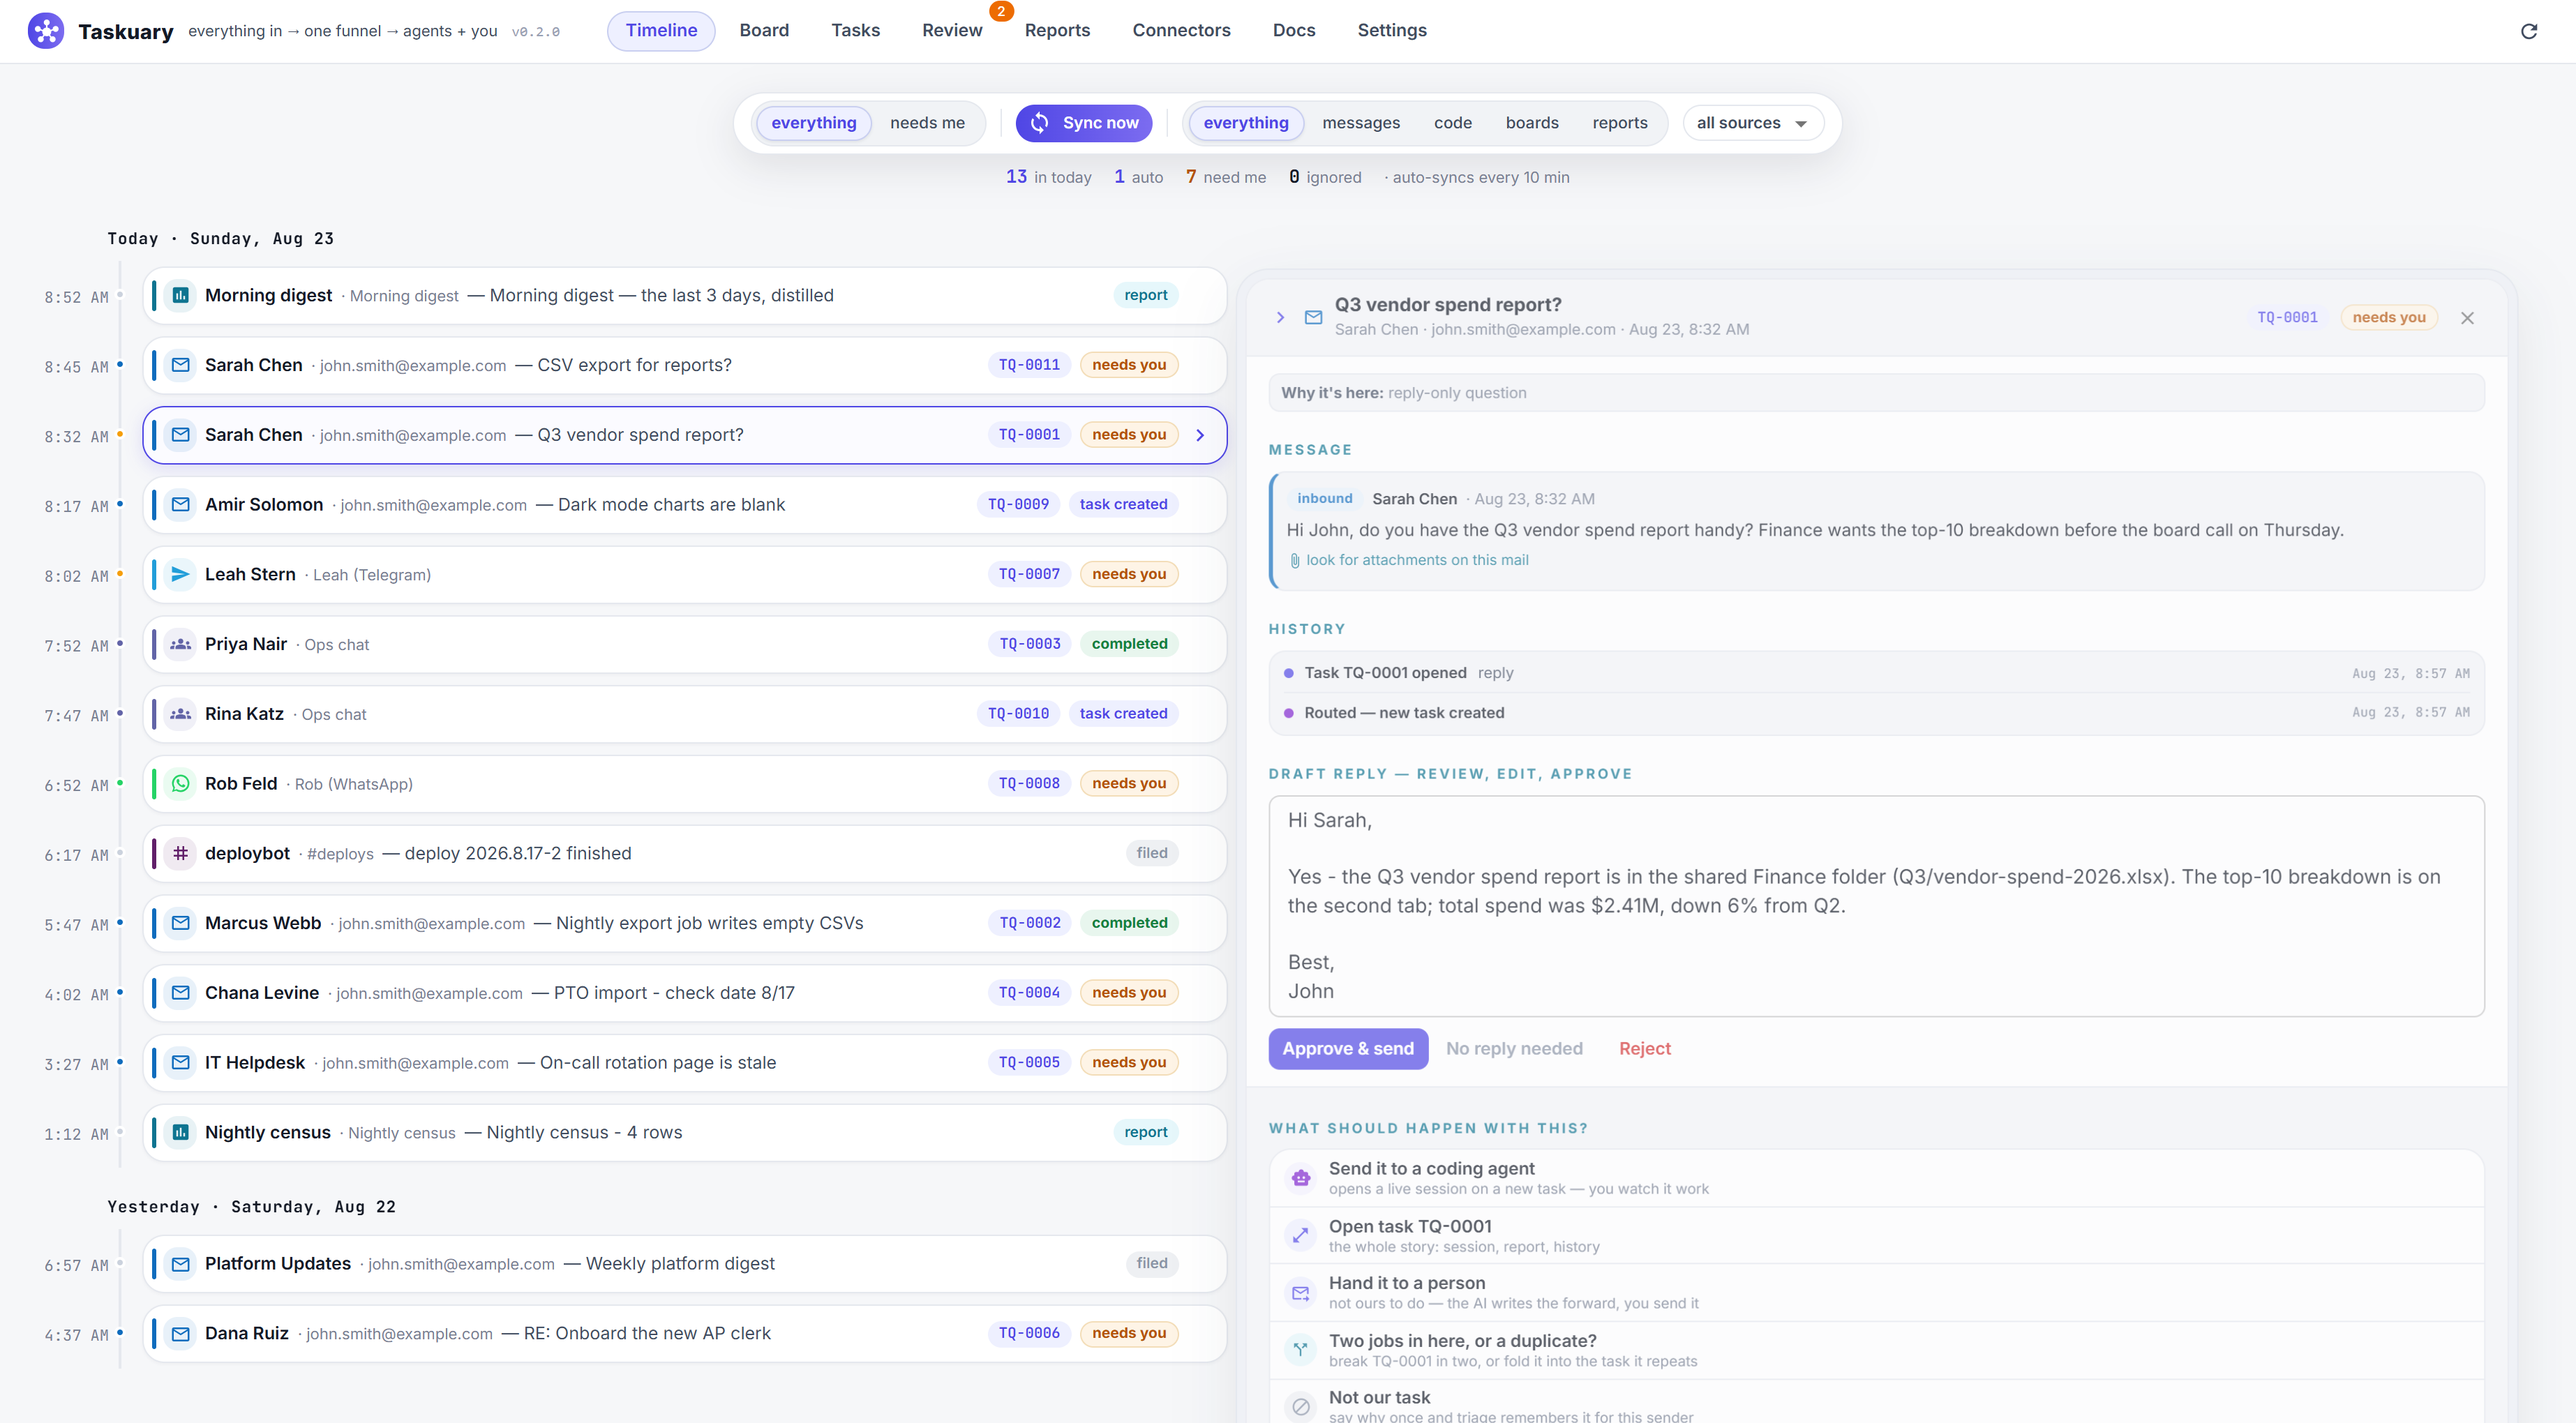
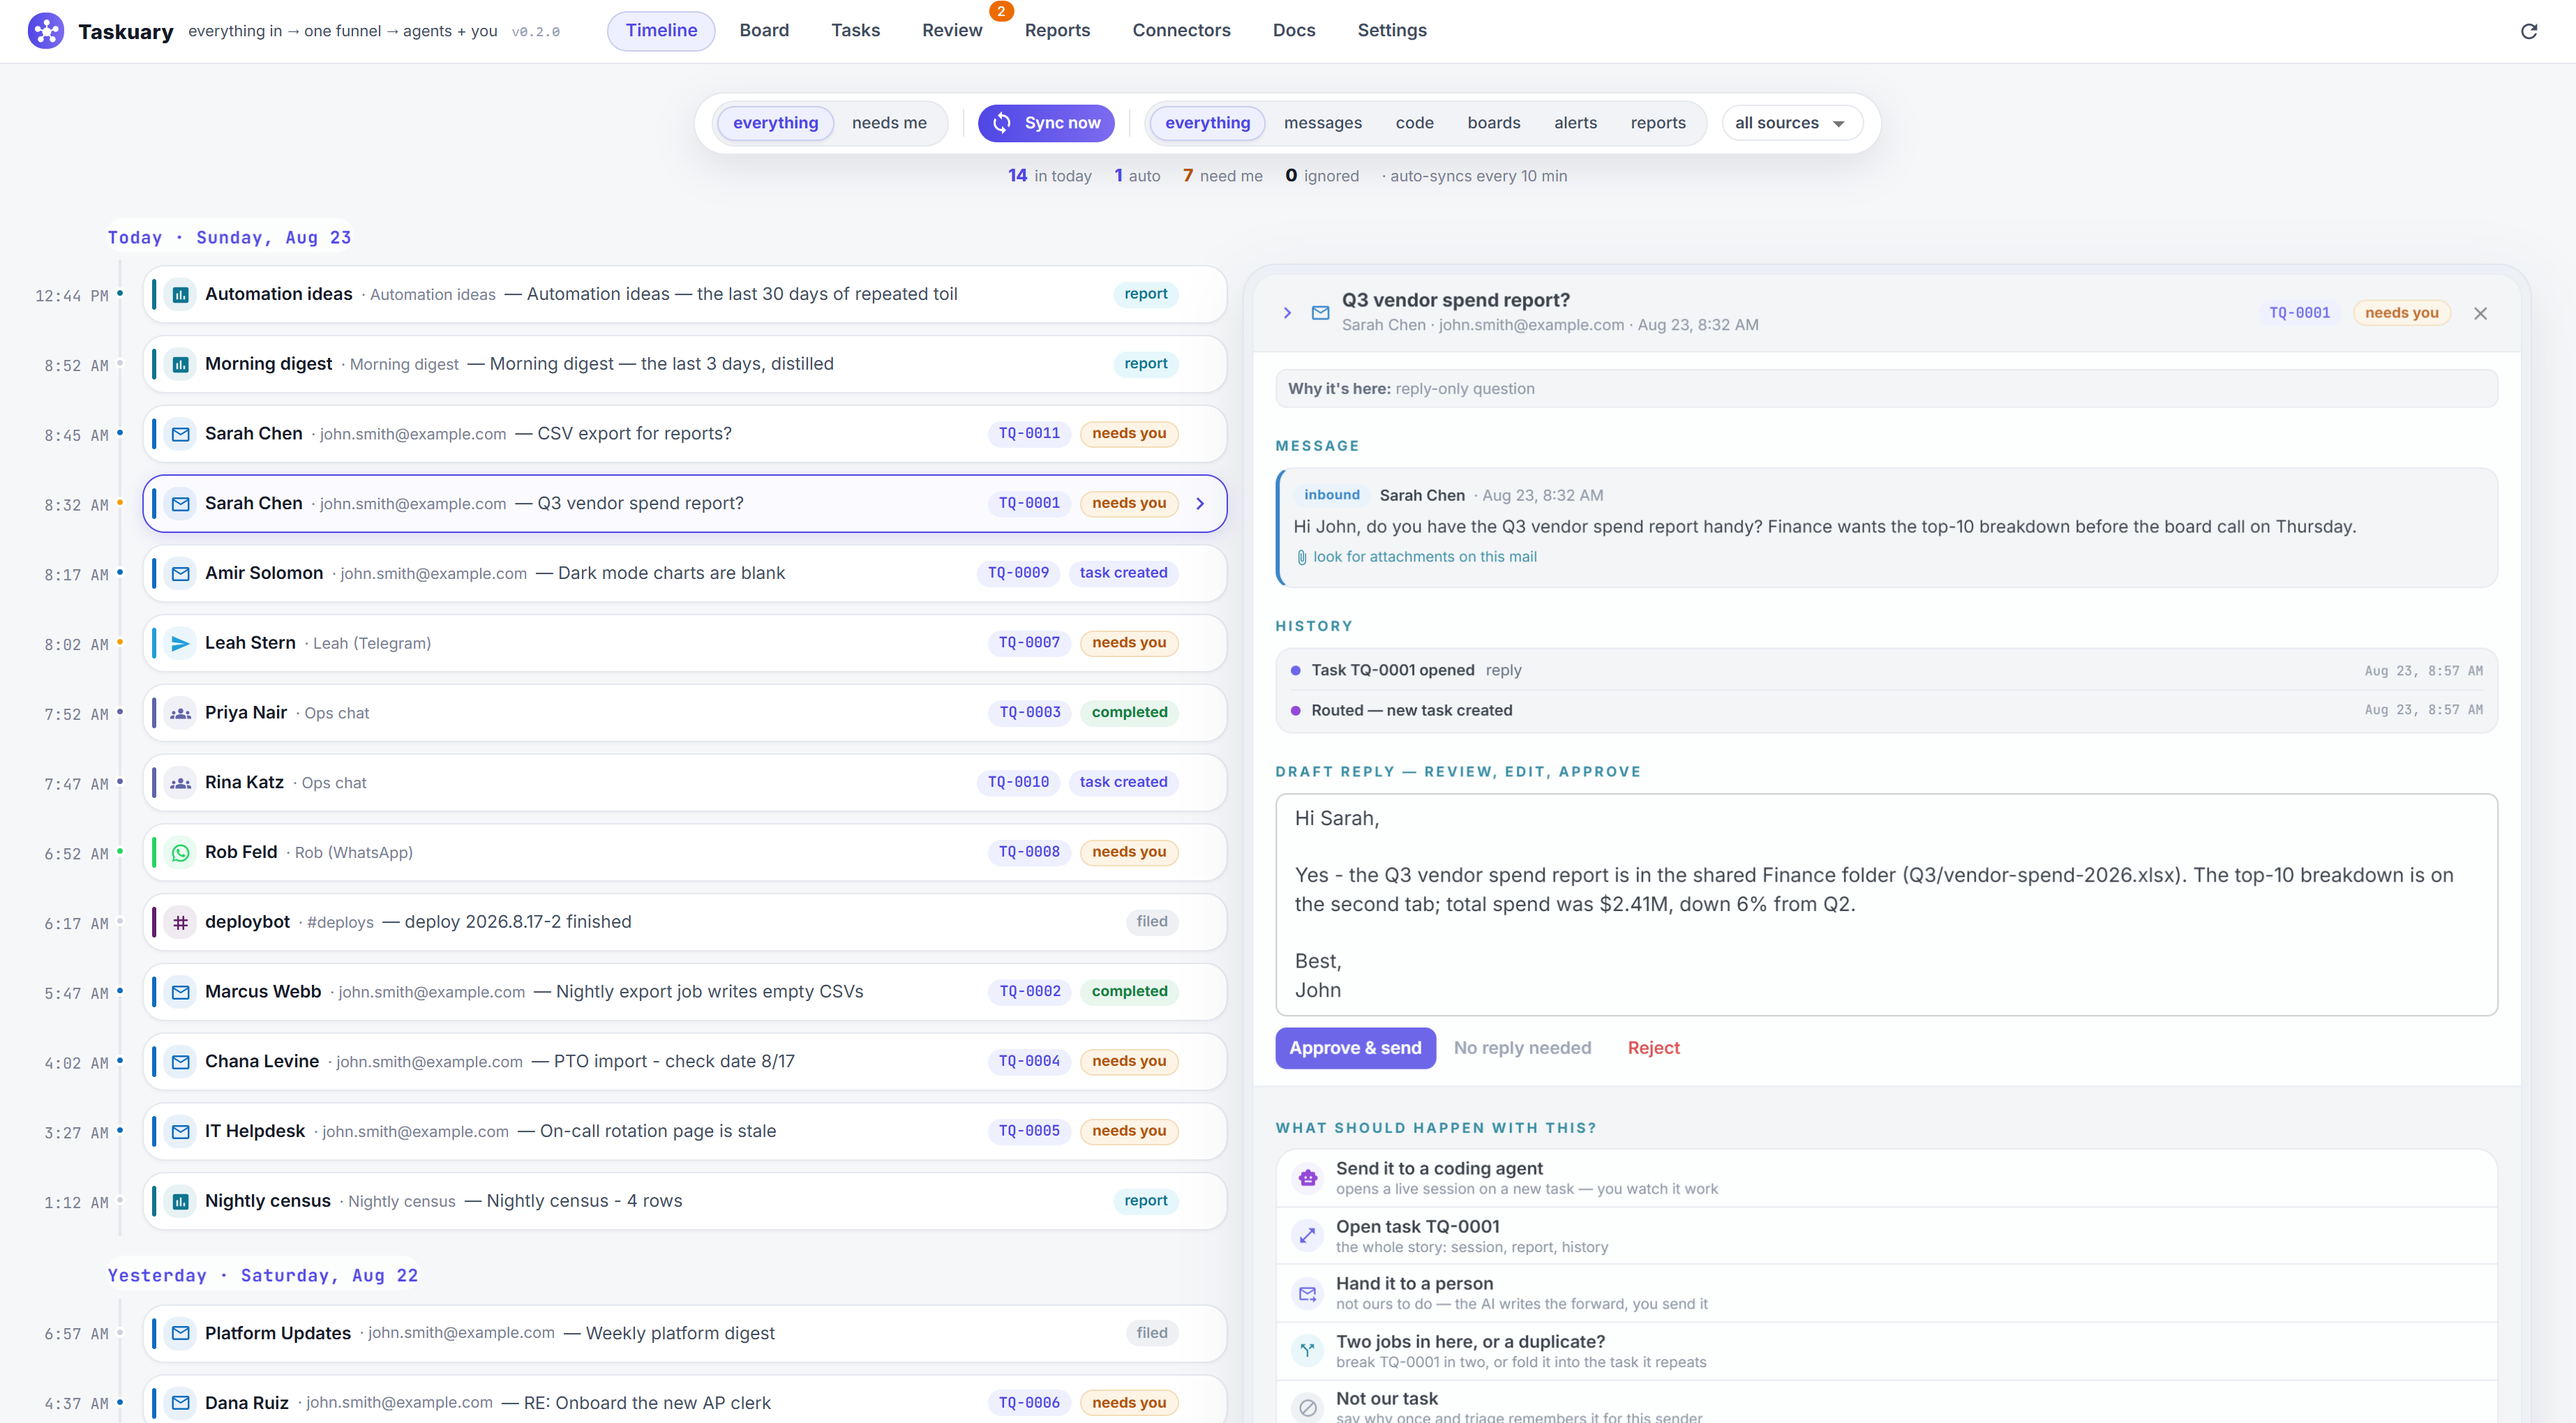
Timeline polish: one face for the caption, and loading lives on the list
The stats caption set its digits in JetBrains Mono next to Inter labels
- two UIs stitched together on one line. The numbers are just bolder
Inter now.

And the sync progress bar - 3px, over the left column only - read as a
broken artifact, not a state. Gone: when the timeline is loading, the
TIMELINE says so - rows dim and a spinner sits on the list itself; the
dock's button and caption already narrate what is being synced.

diff --git a/website/src/FeedView.jsx b/website/src/FeedView.jsx
@@ -4,7 +4,7 @@
 // itself every 30s so new mail animates in while the tab is open.
 import React, { useCallback, useEffect, useRef, useState } from "react";
 import {
-  Alert, Box, Button, Chip, CircularProgress, Drawer, IconButton, LinearProgress, ListSubheader, MenuItem, Select, TextField, Typography,
+  Alert, Box, Button, Chip, CircularProgress, Drawer, IconButton, ListSubheader, MenuItem, Select, TextField, Typography,
 } from "@mui/material";
 import CloseIcon from "@mui/icons-material/Close";
 import ChevronRightIcon from "@mui/icons-material/ChevronRight";
@@ -343,11 +343,13 @@ export default function FeedView({ onOpenTask, onChanged }) {
             was ("need me" filters), and the sync story rides the same line */}
         {rows && (
           <Box sx={{ display: "flex", alignItems: "baseline", gap: 2, flexWrap: "wrap", justifyContent: "center" }}>
+            {/* one face for the whole line: the mono digits next to Inter labels read as two
+                different UIs stitched together - the numbers are just bolder Inter now */}
             {stats.map((s) => (
               <Box key={s.label} onClick={() => s.f && setView(s.f)}
                 sx={{ display: "flex", alignItems: "baseline", gap: 0.6, cursor: s.f ? "pointer" : "default",
                   ...(s.f ? { "&:hover .thubStatLbl": { color: "#4f46e5" } } : {}) }}>
-                <Typography sx={{ ...mono, fontWeight: 700, fontSize: 13,
+                <Typography sx={{ fontWeight: 800, fontSize: 12.5,
                   color: s.hot && s.n ? "#b45309" : s.n ? "#4f46e5" : INK }}>{s.n}</Typography>
                 <Typography className="thubStatLbl" variant="caption" sx={{ color: FAINT, transition: "color .15s" }}>{s.label}</Typography>
               </Box>
@@ -364,9 +366,17 @@ export default function FeedView({ onOpenTask, onChanged }) {
       {/* timeline column: grid's minmax(0,...) hard-caps both tracks, so the panel can
           never spill past the viewport and the list keeps its layout */}
       <Box sx={{ minWidth: 0, maxWidth: 860 }}>
-        {(syncing || bgSync) && <LinearProgress sx={{ mb: 1, borderRadius: 1, height: 3 }} />}
         {err && <Alert severity="error" onClose={() => setErr("")} sx={{ mb: 1.5 }}>{err}</Alert>}
-        <Box sx={{ opacity: syncing ? 0.55 : 1, transition: "opacity .25s" }}>
+        {/* syncing = the TIMELINE is loading, so the timeline says so: rows dim and a
+            spinner sits on the list itself - the old 3px bar over just the left column
+            read as a broken artifact, not a state */}
+        <Box sx={{ position: "relative", opacity: syncing ? 0.55 : 1, transition: "opacity .25s" }}>
+          {syncing && (
+            <Box sx={{ position: "absolute", inset: 0, zIndex: 4, display: "flex",
+              alignItems: "flex-start", justifyContent: "center", pointerEvents: "none" }}>
+              <CircularProgress size={26} sx={{ mt: 14 }} />
+            </Box>
+          )}
           {!rows ? <CircularProgress size={22} sx={{ m: 4 }} /> : !rows.length ? (
             <Empty>Nothing in the feed yet — activate a mailbox in Connectors or run an ingest.</Empty>
           ) : Object.entries(days).map(([day, items]) => (
